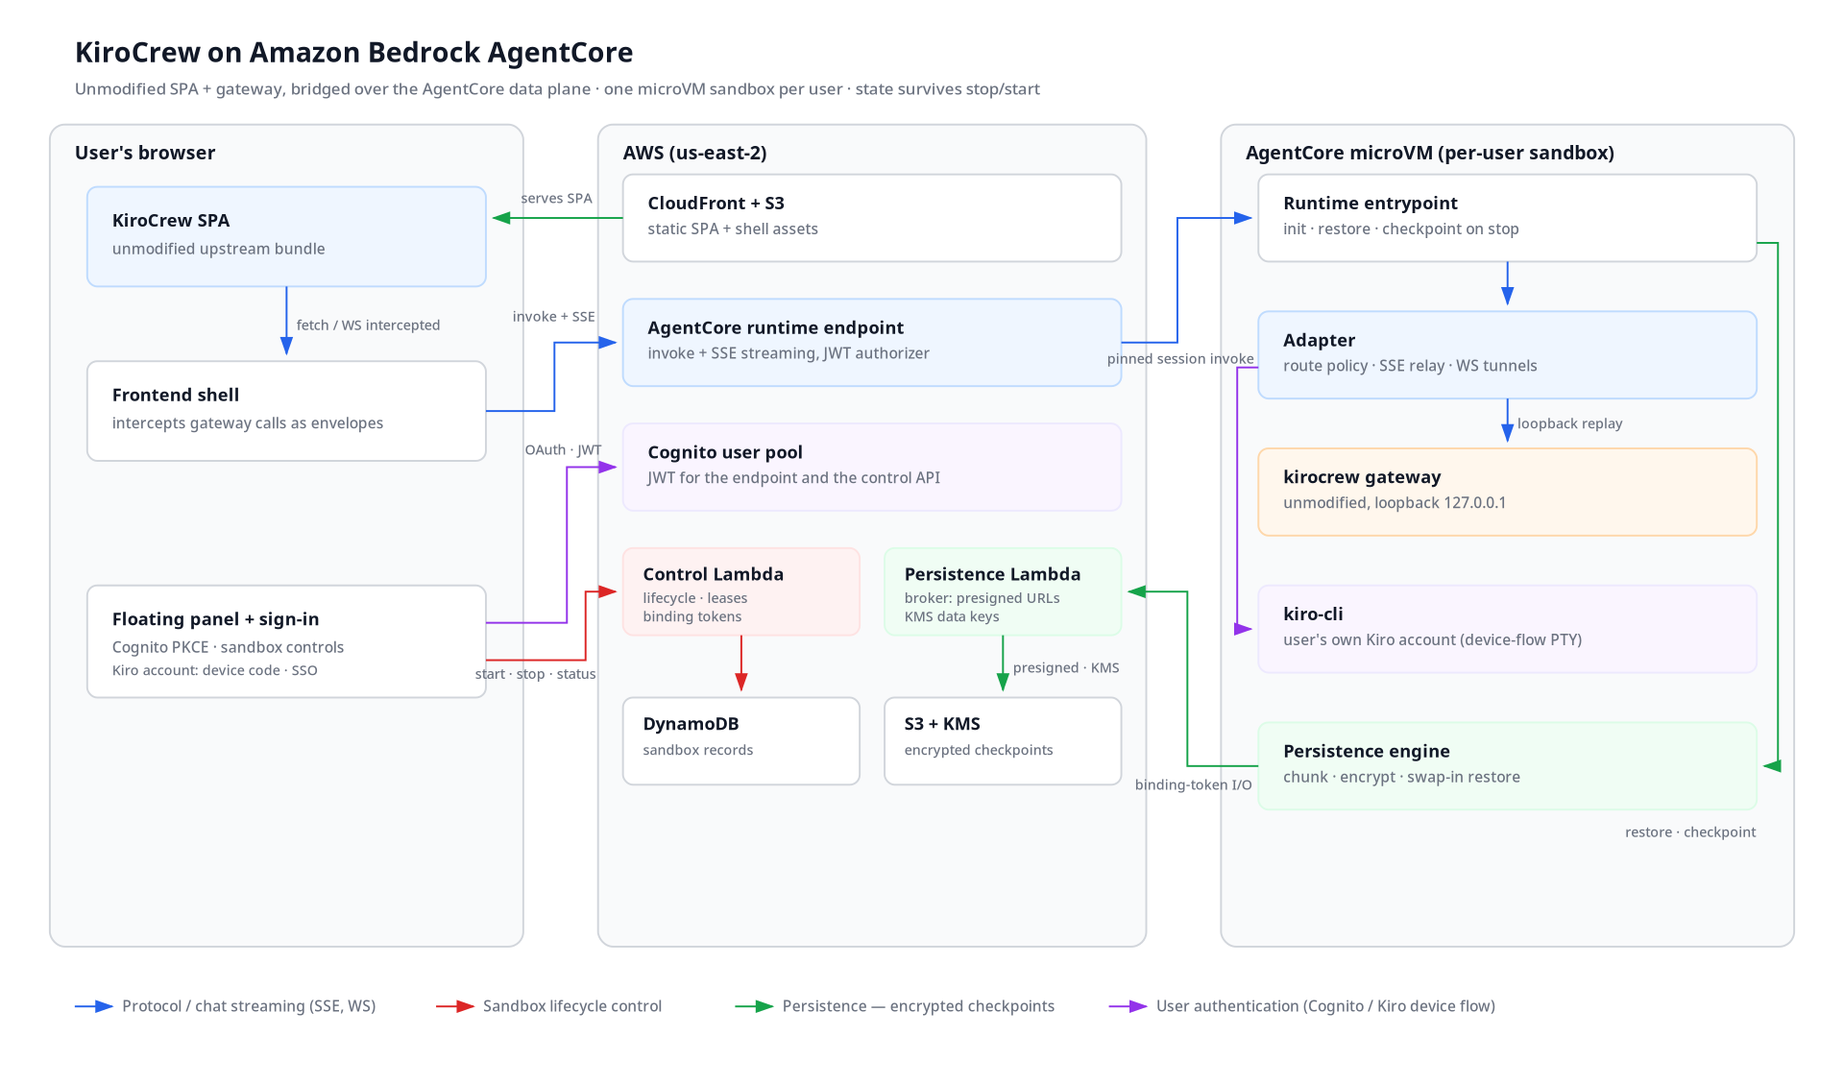
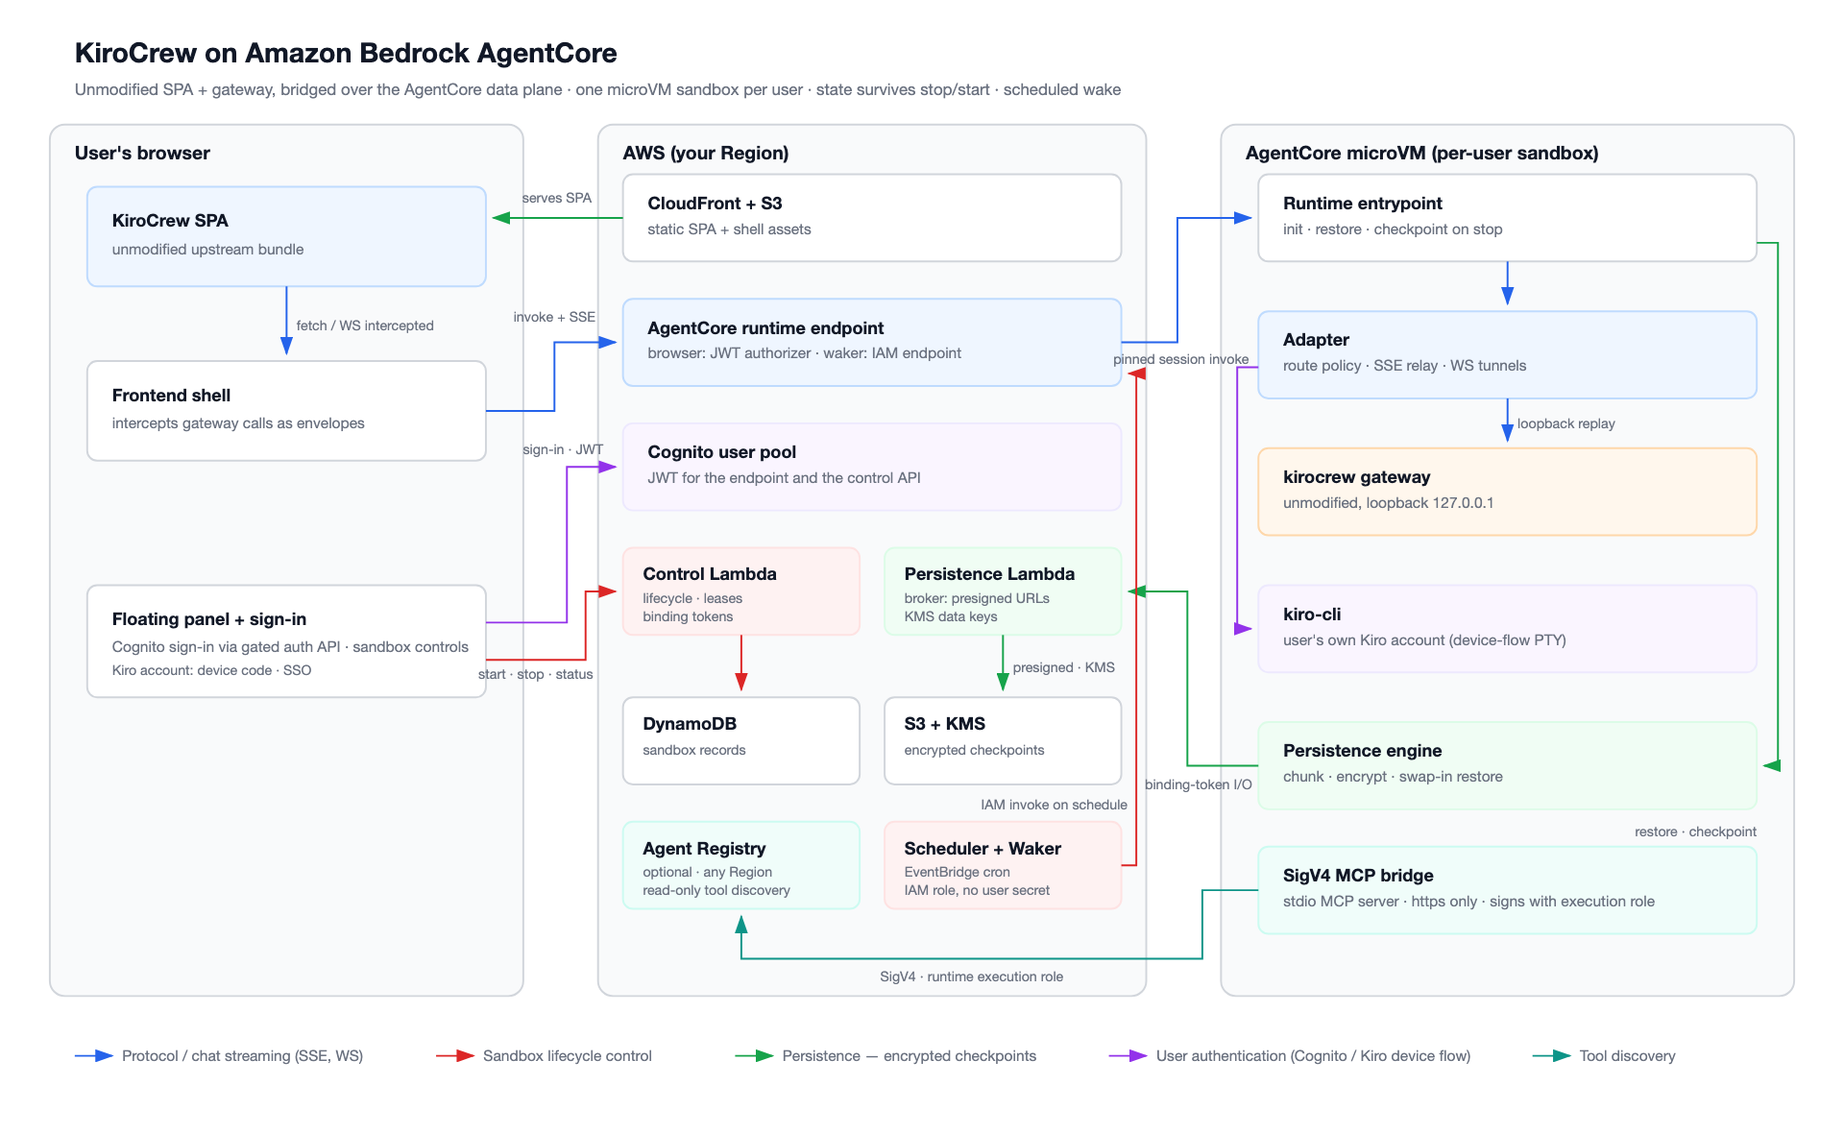
Document the security model and bring the README in line with main (#25)
Add docs/security.md (and zh-CN): controls in place, a credential inventory,
known gaps, and two hardening profiles framed against the AWS agent security
framework.

README and architecture diagram now cover scheduled wake (#18) and the
Agent Registry SigV4 bridge (#24), and describe two behaviors as the code
implements them: sign-in goes through the gated auth API rather than PKCE,
and older checkpoint generations are not pruned yet.

diff --git a/docs/security.md b/docs/security.md
@@ -1,0 +1,125 @@
+# Security model
+
+**English** | [简体中文](security.zh-CN.md)
+
+This document states what the sample protects, what it deliberately does not, and
+how it would be hardened for stricter deployments. It is written against the
+[AWS agent security framework](https://aws.amazon.com/cn/blogs/china/agent-security-framework-design-model-amazon/)
+(isolation, zero standing credentials, deterministic tool authorization, egress
+control, auditability), so each gap is named rather than implied.
+
+> This is sample code. Read this page together with the "not for production use"
+> notice in the [README](../README.md).
+
+## What this deployment is
+
+Each user gets the **full KiroCrew developer workbench** (chat, terminal, code
+execution, MCP servers) inside their own AgentCore microVM. That shapes the threat
+model:
+
+- The **user is trusted inside their own sandbox**. Anything the agent can do, the
+  user's terminal can also do. The boundary this sample defends is *between*
+  users, and between a sandbox and the deployment's shared data.
+- This is the same trust level as KiroCrew on a laptop, with stronger isolation:
+  a per-user microVM instead of the user's own machine, and no standing access to
+  shared storage.
+- It is **not** a restricted business agent. Such an agent would need default-deny
+  egress and per-tool authorization; see [Hardening profiles](#hardening-profiles).
+
+## Controls in place
+
+| Control | How it is enforced | Where |
+|---|---|---|
+| One microVM per user | Each Cognito subject maps to its own AgentCore session | `infrastructure/functions/control/` |
+| Caller identity on every invocation | AgentCore `customJWTAuthorizer` validates the Cognito JWT | `infrastructure/modules/runtime-microvm/` |
+| User ↔ sandbox ↔ session binding | KMS-signed binding token (30 min, renewed while the lease lives); the adapter and the broker both verify it against the Cognito subject | `adapter/.../transport.py`, `persistence/lambda_handler.py` |
+| No data access in the sandbox | The execution role can only verify bindings, invoke the broker, write its own logs and metrics, and (optionally) read one Agent Registry. DynamoDB, S3 and KMS data keys are reached only through the broker | `infrastructure/modules/runtime-common/main.tf` |
+| Brokered, short-lived storage access | The broker checks the binding, confirms the record still names that session, then returns presigned URLs signed with SigV4 | `infrastructure/functions/persistence/` |
+| Encrypted checkpoints | Per-sandbox KMS data key, encryption inside the VM, generation commit with rollback on restore | [persistence.md](persistence.md) |
+| Gateway credential stays in the VM | `/api/token` and `/api/shutdown` are denied by the pinned route policy, enforced by contract tests on both sides | `contracts/kirocrew/0.3.0-route-allowlist.json` |
+| Gated sign-up | Registration and sign-in go through an auth Lambda that enforces an email-domain allowlist | `infrastructure/functions/auth/` |
+| Unattended wake without a stored secret | EventBridge Scheduler → waker Lambda with an IAM role only → a separate IAM-authorized runtime endpoint. The adapter honours scheduler invocations only on that endpoint | [design-scheduled-jobs.md](design-scheduled-jobs.md) |
+| Registry access without user credentials | A stdio SigV4 MCP bridge signs Registry calls with the execution role, refuses non-`https` endpoints, and is scoped to one Registry ARN with four read-only actions | `runtime/.../sigv4_mcp_proxy.py`, [operations.md](operations.md) |
+| Tenant negative tests | Mismatched subject, missing JWT, and forged scheduler claims are rejected | `tests/unit/test_adapter_transport.py` |
+
+## Credential inventory
+
+"The sandbox holds no data-plane AWS permission" is true. "The agent holds no
+long-lived credential" is **not**: the user's Kiro sign-in lives in the sandbox.
+
+| Credential | Held by | Readable by the agent/terminal | In checkpoints | Lifetime | Revocation |
+|---|---|---|---|---|---|
+| Cognito access / refresh token | Browser | No | No | Cognito settings | Cognito sign-out / revoke |
+| Binding token | Browser, per request | In transit only | No | 30 min | Expiry, session rotation |
+| Runtime-session token | Runtime process | Yes (same VM) | No | Platform session lifetime | Expiry |
+| Execution role STS credentials | Every process in the VM | Yes | No | Short-lived | Role policy change |
+| Presigned S3 URL | Persistence engine | Yes, briefly | No | Minutes | Expiry |
+| Kiro Builder ID / SSO token | `~/.local/share/kiro-cli` | **Yes** | **Yes**, encrypted | Kiro-managed | `Sign out of Kiro` |
+| MCP / third-party tokens a user adds | `~/.kiro`, `~/.config` (tool-dependent) | **Yes** | **Yes**, encrypted | Provider-managed | Provider-side revoke |
+
+The execution role is **shared by all sandboxes of a deployment**. That is safe
+today because it carries no data access and only read-only Registry actions; it
+stops being safe the moment downstream business permissions are added to it.
+
+## Known gaps and boundaries
+
+1. **Sign-in is password-based, not PKCE.** The floating panel sends the email and
+   password to the auth Lambda, which calls Cognito `ADMIN_USER_PASSWORD_AUTH`.
+   MFA challenges are rejected (`CHALLENGE_NOT_SUPPORTED`) although the pool
+   allows optional MFA. The control API checks the generic
+   `aws.cognito.signin.user.admin` scope rather than the defined
+   `kirocrew.control/invoke` scope.
+2. **Public egress.** The runtime uses `NetworkMode = "PUBLIC"`. A developer
+   workbench needs the internet (Kiro service, Git, package registries, MCP), but
+   it also means a prompt-injected command can reach any destination.
+3. **No deterministic per-tool authorization.** Apart from the denied routes,
+   every KiroCrew route is tunneled; tool approval is KiroCrew's own application
+   layer. Agent Registry is **discovery only** and grants nothing.
+4. **Third-party tokens share the Kiro sign-in's fate.** Anything a user signs in
+   to inside the sandbox is checkpointed with the workspace.
+5. **Checkpoint retention is not enforced yet.** `RetentionManager` has no
+   production caller (container-side deletion is intentionally forbidden), and the
+   scheduled `audit` broker operation is a stub. Older generations accumulate
+   until a broker-side sweep exists.
+6. **Platform access logs carry invocation payloads.** Prompts and file content
+   can appear in `/aws/vendedlogs/bedrock-agentcore/...`. Kiro output is
+   redacted by pattern (`redact_kiro_output`), which is best-effort, not a
+   guarantee.
+
+## Hardening profiles
+
+The two profiles below are a plan, not implemented features.
+
+**Developer sandbox** (this sample, for trusted engineers):
+
+- Keep internet egress, but block instance metadata and link-local addresses and
+  internal CIDRs, and log DNS/HTTP destinations.
+- Switch sign-in to Authorization Code + PKCE or a corporate IdP so the
+  deployment never handles passwords; enable MFA; require the dedicated
+  `kirocrew.control/invoke` scope.
+- Move third-party credentials out of the checkpoint into a credential provider
+  (for example AgentCore Identity) instead of files under `~/.kiro` / `~/.config`.
+- Add a broker-side retention sweep and a real integrity audit.
+
+**Restricted agent** (business actions such as email, CRM, GitHub writes, AWS
+changes):
+
+- VPC network mode with default-deny egress to an allowlist (Kiro, Bedrock,
+  Gateway, approved repositories and package mirrors).
+- Route high-risk tools through AgentCore Gateway with policy (Cedar) evaluated on
+  user, tool, resource and arguments, plus human confirmation for destructive or
+  outbound actions. Downstream systems still validate business state.
+- Keep the execution role minimal; put downstream permissions on Gateway targets
+  and credential providers, never on the shared role.
+- Correlate application logs, AgentCore Observability traces and CloudTrail by a
+  shared request ID, and keep secrets and prompt bodies out of logs by
+  construction rather than by redaction.
+
+## Tests to add
+
+Existing tests cover binding mismatch and forged scheduler claims. Worth adding
+before any wider rollout: reuse of a binding token after session rotation;
+attempts from inside a sandbox to read another tenant's checkpoint keys; a
+prompt-injection fixture that asks the agent to upload `~/.local/share/kiro-cli`;
+egress to metadata and internal addresses; and account deletion across Cognito,
+DynamoDB, S3 object versions and logs.

diff --git a/docs/security.zh-CN.md b/docs/security.zh-CN.md
@@ -1,0 +1,97 @@
+# 安全模型
+
+[English](security.md) | **简体中文**
+
+本文说明这个示例保护了什么、有意没有保护什么，以及在更严格的场景下该如何加固。对照框架是
+[AWS Agent 安全框架](https://aws.amazon.com/cn/blogs/china/agent-security-framework-design-model-amazon/)
+（运行时隔离、零常驻凭证、确定性工具授权、出网控制、可审计），每一项差距都直接写明。
+
+> 这是示例代码，请结合 [README](../README.zh-CN.md) 中"不用于生产"的说明阅读。
+
+## 这套部署是什么
+
+每个用户在自己的 AgentCore microVM 里拿到**完整的 KiroCrew 开发工作台**（对话、终端、代码执行、
+MCP）。这决定了威胁模型：
+
+- **用户在自己的沙箱内是受信的。** Agent 能做的事，用户的终端同样能做。本示例防守的边界是
+  **用户与用户之间**，以及沙箱与部署共享数据之间。
+- 信任级别与笔记本上运行 KiroCrew 相同，但隔离更强：用每用户 microVM 取代本机，且不常驻任何共享
+  存储的访问权限。
+- 它**不是**受限的业务 Agent。那类 Agent 需要默认拒绝出网和逐工具授权，见[加固档位](#加固档位)。
+
+## 已落实的控制
+
+| 控制 | 实现方式 | 位置 |
+|---|---|---|
+| 每用户一个 microVM | 每个 Cognito subject 对应独立的 AgentCore 会话 | `infrastructure/functions/control/` |
+| 每次调用校验身份 | AgentCore `customJWTAuthorizer` 校验 Cognito JWT | `infrastructure/modules/runtime-microvm/` |
+| 用户 ↔ 沙箱 ↔ 会话绑定 | KMS 签名的绑定令牌（30 分钟，租约存活期间自动续期），Adapter 与 Broker 都会与 Cognito subject 比对 | `adapter/.../transport.py`、`persistence/lambda_handler.py` |
+| 沙箱内无数据权限 | 执行角色只能验签、调用 Broker、写自身日志和指标，以及（可选）只读访问一个 Agent Registry。DynamoDB、S3 和 KMS 数据密钥只能经 Broker 访问 | `infrastructure/modules/runtime-common/main.tf` |
+| 经 Broker 的短期存储访问 | Broker 校验绑定、确认记录仍指向该会话后，返回 SigV4 签名的预签名 URL | `infrastructure/functions/persistence/` |
+| 加密检查点 | 每沙箱独立 KMS 数据密钥、VM 内加密、按代提交、恢复失败可回退 | [persistence.md](persistence.md) |
+| Gateway 凭证不出 VM | 固定路由策略拒绝 `/api/token` 和 `/api/shutdown`，两端都有契约测试 | `contracts/kirocrew/0.3.0-route-allowlist.json` |
+| 注册门禁 | 注册和登录经 auth Lambda，强制邮箱域名白名单 | `infrastructure/functions/auth/` |
+| 无人值守唤醒不存密钥 | EventBridge Scheduler → 只有 IAM 角色的 Waker Lambda → 单独的 IAM 鉴权 Runtime 端点；Adapter 只在该端点接受调度调用 | [design-scheduled-jobs.md](design-scheduled-jobs.md) |
+| 访问 Registry 不用用户凭证 | stdio SigV4 MCP 桥用执行角色签名，拒绝非 `https` 地址，权限限定为单个 Registry ARN 的四个只读动作 | `runtime/.../sigv4_mcp_proxy.py`、[operations.md](operations.md) |
+| 租户隔离负向测试 | subject 不匹配、缺 JWT、伪造调度声明都会被拒绝 | `tests/unit/test_adapter_transport.py` |
+
+## 凭证清单
+
+"沙箱不持有 AWS 数据面权限"成立；"Agent 没有任何长期凭证"**不成立**：用户的 Kiro 登录态就在沙箱里。
+
+| 凭证 | 持有者 | Agent/终端能否读取 | 是否进检查点 | 有效期 | 撤销方式 |
+|---|---|---|---|---|---|
+| Cognito access / refresh token | 浏览器 | 否 | 否 | 按 Cognito 配置 | Cognito 登出 / revoke |
+| 绑定令牌 | 浏览器，随请求 | 仅传输中可见 | 否 | 30 分钟 | 过期、会话轮换 |
+| Runtime-session 令牌 | Runtime 进程 | 是（同一 VM） | 否 | 平台会话寿命 | 过期 |
+| 执行角色 STS 凭证 | VM 内所有进程 | 是 | 否 | 短期 | 修改角色策略 |
+| 预签名 S3 URL | 持久化引擎 | 短暂可见 | 否 | 分钟级 | 过期 |
+| Kiro Builder ID / SSO 令牌 | `~/.local/share/kiro-cli` | **是** | **是**，加密 | Kiro 管理 | `Sign out of Kiro` |
+| 用户自行添加的 MCP / 第三方令牌 | `~/.kiro`、`~/.config`（视工具而定） | **是** | **是**，加密 | 由提供方管理 | 在提供方撤销 |
+
+执行角色**由同一部署的所有沙箱共用**。今天这是安全的，因为它没有数据权限，Registry 也只有只读动作；
+一旦往这个角色上加下游业务权限，就不再安全。
+
+## 已知差距与边界
+
+1. **登录是密码方式，不是 PKCE。** 悬浮面板把邮箱和密码发给 auth Lambda，由它调用 Cognito
+   `ADMIN_USER_PASSWORD_AUTH`。用户池允许可选 MFA，但 MFA challenge 会被拒绝
+   （`CHALLENGE_NOT_SUPPORTED`）。Control API 校验的是通用 scope `aws.cognito.signin.user.admin`，
+   而不是已定义的 `kirocrew.control/invoke`。
+2. **公网出口。** Runtime 使用 `NetworkMode = "PUBLIC"`。开发工作台需要联网（Kiro 服务、Git、包仓库、
+   MCP），但这也意味着被提示注入的命令可以访问任意目标。
+3. **没有确定性的逐工具授权。** 除被拒绝的路由外，KiroCrew 路由全部隧穿；工具审批依靠 KiroCrew 自身的
+   应用层。Agent Registry **只负责发现**，不授予任何权限。
+4. **第三方令牌与 Kiro 登录态一起落盘。** 用户在沙箱内登录的任何服务，都会随工作区进入检查点。
+5. **检查点保留策略尚未生效。** `RetentionManager` 没有生产调用方（容器侧删除被有意禁止），定时触发的
+   `audit` Broker 操作目前是空实现。在 Broker 侧清理实现之前，旧代数会持续累积。
+6. **平台访问日志包含调用载荷。** Prompt 和文件内容可能出现在 `/aws/vendedlogs/bedrock-agentcore/...`
+   中。Kiro 输出按正则脱敏（`redact_kiro_output`），这是尽力而为，不是保证。
+
+## 加固档位
+
+以下两档是规划，尚未实现。
+
+**开发沙箱**（本示例，面向受信工程师）：
+
+- 保留互联网出口，但阻止实例元数据、链路本地地址和内部网段，并记录 DNS/HTTP 目标。
+- 登录改为 Authorization Code + PKCE 或企业 IdP，让部署不接触密码；启用 MFA；要求专用
+  `kirocrew.control/invoke` scope。
+- 第三方凭证从检查点移到凭证提供方（例如 AgentCore Identity），不再以文件形式放在
+  `~/.kiro` / `~/.config`。
+- 在 Broker 侧实现保留清理和真正的完整性审计。
+
+**受限 Agent**（发邮件、CRM、GitHub 写操作、AWS 变更等业务动作）：
+
+- VPC 网络模式，出口默认拒绝，只放行白名单（Kiro、Bedrock、Gateway、批准的仓库与软件源）。
+- 高风险工具统一经 AgentCore Gateway，按用户、工具、资源、参数执行策略（Cedar）判定；删除、外发类动作
+  加人工确认。下游系统仍负责业务状态校验。
+- 执行角色保持最小；下游权限放在 Gateway Target 和凭证提供方一侧，不叠加到共享角色。
+- 应用日志、AgentCore Observability trace 和 CloudTrail 用同一请求 ID 串联；敏感字段与 Prompt 正文
+  从设计上不进日志，而不是依赖脱敏。
+
+## 建议补充的测试
+
+现有测试已覆盖绑定不匹配和伪造调度声明。扩大使用前建议补充：会话轮换后复用旧绑定令牌；在沙箱内尝试读取
+其他租户的检查点对象；要求 Agent 上传 `~/.local/share/kiro-cli` 的提示注入用例；访问元数据与内部地址；
+以及删除账号后 Cognito、DynamoDB、S3 对象版本和日志的清理。

diff --git a/README.md b/README.md
@@ -72,8 +72,8 @@ At a glance:
 
 A request makes the following journey:
 
-1. **Sign-in and sandbox control.** The floating panel signs the user in with Cognito
-   PKCE. The control Lambda creates or resumes the user's sandbox record, manages
+1. **Sign-in and sandbox control.** The floating panel signs the user in to Cognito
+   through the deployment's gated auth API. The control Lambda creates or resumes the user's sandbox record, manages
    leases, and issues a short-lived binding token.
 2. **Gateway interception.** The frontend shell intercepts the unmodified SPA's
    loopback HTTP, SSE, and WebSocket calls and encodes them as protocol envelopes.
@@ -88,11 +88,22 @@ A request makes the following journey:
    sign-in or sign-out, on a periodic interval when the workspace changed, when
    background work goes idle, and on SIGTERM. On start, it restores the latest
    generation before launching the gateway.
+6. **Scheduled wake.** EventBridge Scheduler triggers a waker Lambda that holds
+   only an IAM role. It invokes a separate IAM-authorized runtime endpoint for
+   the sandbox's owner, so KiroCrew cron jobs fire with no browser open. See
+   [docs/design-scheduled-jobs.md](docs/design-scheduled-jobs.md).
+7. **Tool discovery (optional).** When `agent_registry_id` is set, a SigV4 MCP
+   bridge inside the VM exposes one AWS Agent Registry to KiroCrew, signed with
+   the runtime execution role. See [docs/operations.md](docs/operations.md).
 
 The diagram uses **blue** for protocol and chat streaming, **red** for sandbox
-lifecycle, **green** for persistence, and **purple** for user authentication.
+lifecycle, **green** for persistence, **purple** for user authentication, and
+**teal** for tool discovery.
 
 ## Security and persistence model
+
+A fuller treatment, including the credential inventory, known gaps, and
+hardening profiles, is in [docs/security.md](docs/security.md).
 
 - **Tenancy is enforced by the transport, not by route filtering.** AgentCore
   validates the Cognito JWT on every invocation, and the adapter verifies a binding
@@ -117,7 +128,8 @@ lifecycle, **green** for persistence, and **purple** for user authentication.
   record still names that session before every read or write. A sandbox user
   who extracts the role's credentials gains nothing beyond their own sandbox.
 - **Checkpoints** use per-sandbox KMS data keys and are committed as generations in
-  S3. The latest two generations are retained; an offline auditor verifies them.
+  S3. Pruning of older generations is not enforced yet; see
+  [docs/security.md](docs/security.md#known-gaps-and-boundaries).
 - **Restore** stages under `.agentcore/` inside the workspace on the microVM's
   container disk, prefetches chunks in parallel, and swaps entries into place with
   rollback support. The workspace disk is ephemeral: encrypted S3 checkpoints are
@@ -310,7 +322,7 @@ classified.
 
 | Path | Responsibility |
 |---|---|
-| `frontend-shell/` | Cognito PKCE, lifecycle UI, gateway interception, remote transport, and upstream SPA contract pins |
+| `frontend-shell/` | Cognito sign-in, lifecycle UI, gateway interception, remote transport, and upstream SPA contract pins |
 | `adapter/` | Protocol validation, loopback route policy, HTTP/SSE/WebSocket tunneling, and Kiro identity operations |
 | `runtime/` | AgentCore entrypoint, session initialization, gateway supervision and restart, invocation handling, and checkpoint scheduling |
 | `infrastructure/` | Terraform for CloudFront, S3, Cognito, Lambdas, DynamoDB, KMS, ECR, and AgentCore wiring |
@@ -319,12 +331,14 @@ classified.
 | `contracts/` | JSON Schema, OpenAPI/AsyncAPI definitions, route policy, and upstream compatibility pins |
 | `tests/` | Unit, cross-language contract, deployed-stack end-to-end, and browser UI tests |
 | `tools/` | Protocol code generation, upstream SPA extraction, Terraform wrapper, and image tooling |
-| `docs/` | Architecture source, screenshots, the persistence contract, and the end-user guide |
+| `docs/` | Architecture source, screenshots, the persistence contract, the security model, and the end-user guide |
 | `CLAUDE.md` (`AGENTS.md`) | Coding-agent onboarding: build/verify/deploy commands and load-bearing invariants |
 
 ## Security
 
-See [CONTRIBUTING](CONTRIBUTING.md#security-issue-notifications) for how to report
+The security model and its known gaps are described in
+[docs/security.md](docs/security.md). See
+[CONTRIBUTING](CONTRIBUTING.md#security-issue-notifications) for how to report
 security issues.
 
 ## License
